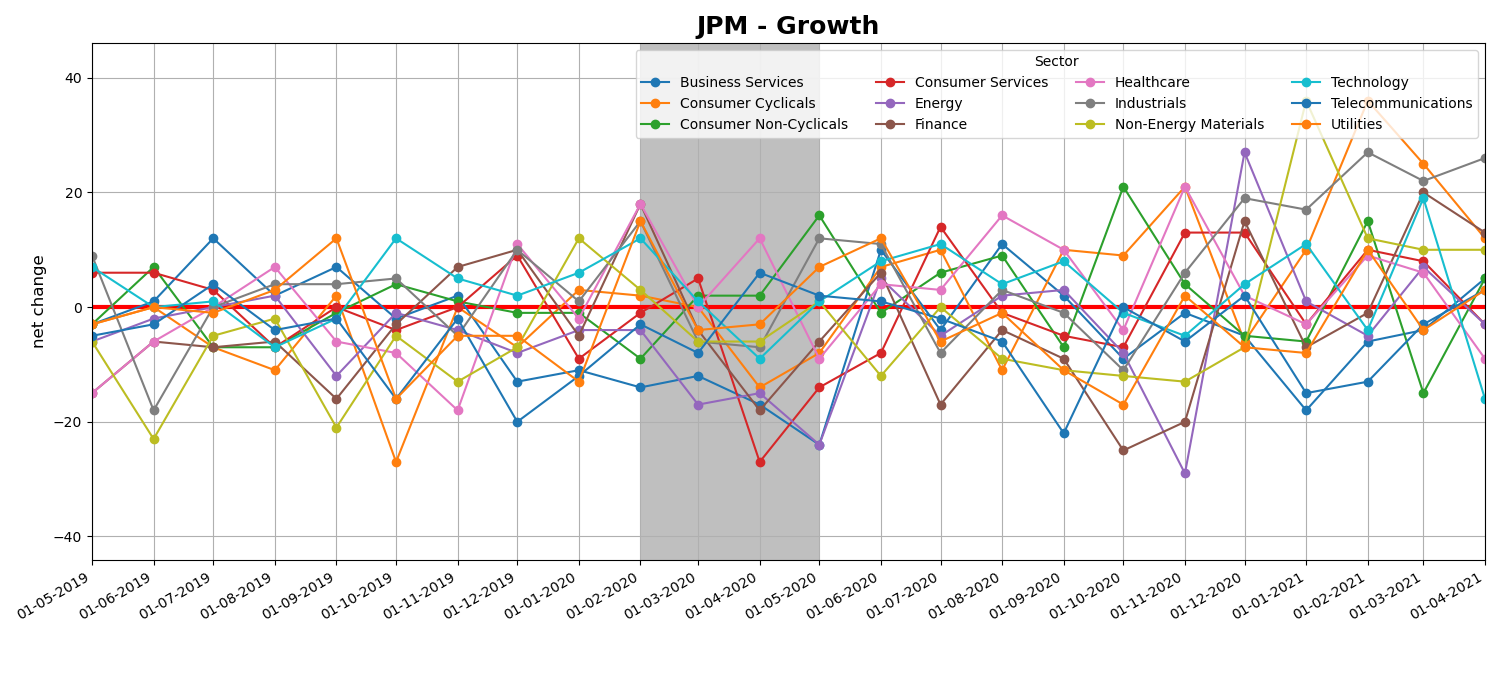
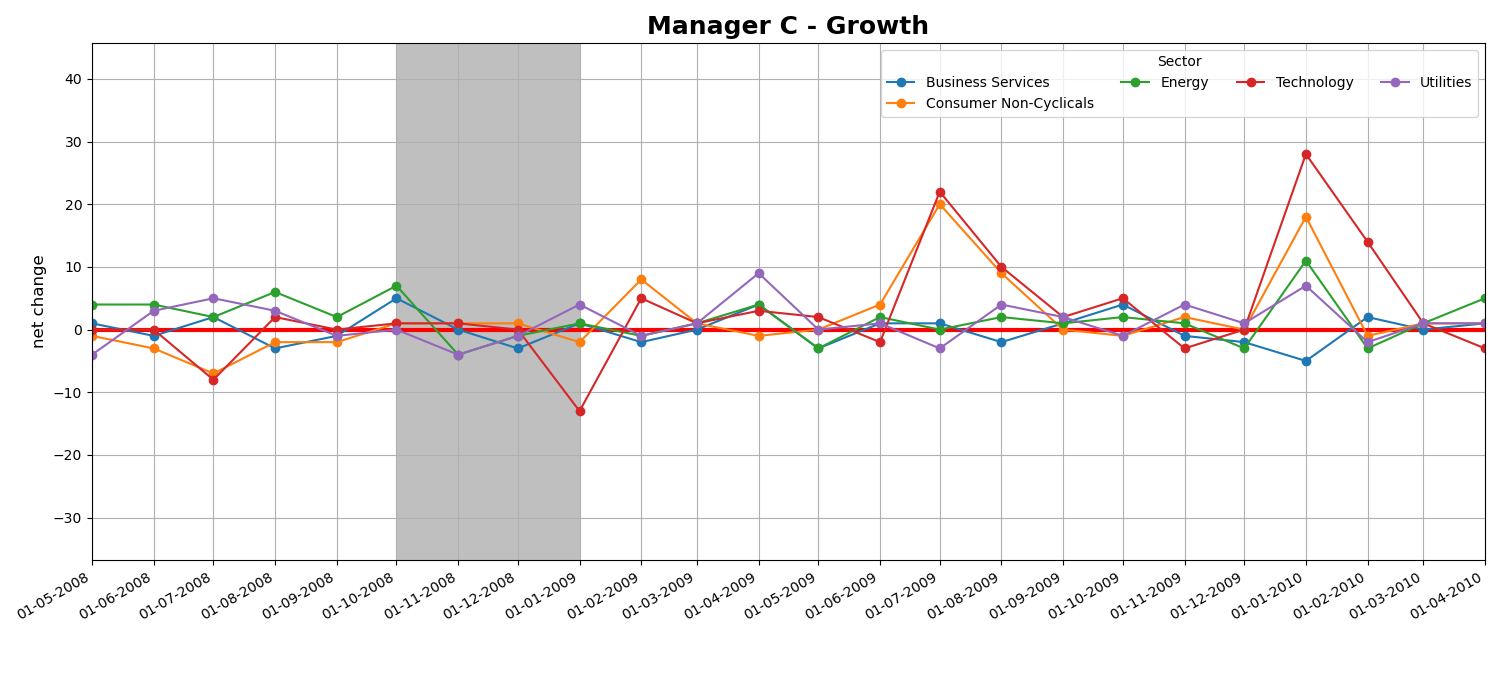
changes

diff --git a/Insight/Insight_1/4.2.extract_sector_data.py b/Insight/Insight_1/4.2.extract_sector_data.py
@@ -22,6 +22,13 @@ connection_to_sql = pyodbc.connect('DSN={dsn_name}'.format(dsn_name = dsn))
 manager = 'JPM'
 
 
+
+if manager == 'JPM':
+    manager_hidden = 'Manager C'
+else:
+    manager_hidden = 'Manager A'
+
+
 start_time = time.time()
 
 sql_query_1 = loadsql.get_sql_q('3.2.extract_sector_data.sql',show=0,connection=dsn).format(manager=manager)
@@ -43,23 +50,11 @@ print("Process finished --- %s seconds ---" % (time.time() - start_time))
 # df_1[df_1.style_agg.isin(['Value', 'Growth'])].groupby(['as_of_date','sector']).sum()['net_chg'].unstack().plot(ax=ax, marker='o') # only plot value and growth from dataframe
 
 
-
-# %%
-
-style_list = ['Value','Growth']
-sector_list = ['Finance','Healthcare','Technology','Energy', 'Utilities', 'Telecommunications', 'Non-Energy Materials', 'Consumer Non-Cyclicals', 'Industrials', 'Consumer Services', 'Consumer Cyclicals', 'Business Services']
+#%%
 
 
-#['Finance','Healthcare','Technology','Telecommunications','Consumer Cyclicals','Utilities']
-
-
-
-
-#['Finance','Healthcare','Technology','Energy']
-
-
-start_date = datetime.date(2019, 5, 1)
-end_date = datetime.date(2021, 4, 1)
+start_date = datetime.date(2008, 5, 1)
+end_date = datetime.date(2010, 4, 1)
 
 # start_date = datetime.date(2008, 5, 1)
 # end_date = datetime.date(2010, 4, 1)
@@ -79,6 +74,34 @@ interval = 1
 # Consumer Cyclicals
 # Business Services
 
+
+# %%
+
+style_list = ['Value','Growth']
+sector_list = ['Technology','Energy', 'Utilities', 'Consumer Non-Cyclicals', 'Business Services']
+
+
+# JPM 2020 ['Finance','Healthcare','Technology','Energy','Consumer Cyclicals', 'Business Services']
+# JPM 2008 ['Technology','Energy', 'Utilities', 'Consumer Non-Cyclicals', 'Business Services']
+
+# Fidelity 2020 ['Healthcare','Technology', 'Consumer Non-Cyclicals', 'Industrials', 'Consumer Services', 'Business Services']
+# Fidelity 2008 ['Healthcare', 'Utilities', 'Non-Energy Materials', 'Consumer Non-Cyclicals', 'Business Services']
+
+# ALL ['Finance','Healthcare','Technology','Energy', 'Utilities', 'Telecommunications', 'Non-Energy Materials', 'Consumer Non-Cyclicals', 'Industrials', 'Consumer Services', 'Consumer Cyclicals', 'Business Services']
+
+
+df_value = df_1[df_1.style_agg.eq('Value') & df_1.sector.isin(sector_list) & df_1.as_of_date.eq('2009-01-01')][['sector','net_chg']].set_index('sector').rename(columns = {'net_chg':'net_chg_value'})
+
+df_growth = df_1[df_1.style_agg.eq('Growth') & df_1.sector.isin(sector_list) & df_1.as_of_date.eq('2009-01-01')][['sector','net_chg']].set_index('sector').rename(columns = {'net_chg':'net_chg_growth'})
+
+
+df_comb = pd.concat([df_value, df_growth], axis=1, join="inner")
+
+df_comb['net_final'] = (df_comb['net_chg_value']-df_comb['net_chg_growth']).abs()
+
+df_comb.sort_values(by='net_final', ascending=False)
+
+
 #%%
 
 # by Sector
@@ -87,7 +110,7 @@ def graph(style,sector_list):
 
     fig, ax = plt.subplots(figsize=(15,7))
 
-    ax.set_title(manager + ' - ' + style, fontsize=18, fontweight='bold') # title of the plot
+    ax.set_title(manager_hidden + ' - ' + style, fontsize=18, fontweight='bold') # title of the plot
     ax.axhline(linewidth=3, color='r') # red color line on y=0
 
     if start_date > datetime.date(2015, 1, 1):
@@ -97,7 +120,6 @@ def graph(style,sector_list):
     else:
         
         ax.axvspan(datetime.date(2008, 10, 1), datetime.date(2009, 1, 1), facecolor ='gray', alpha = 0.5) # gray area for Sep/2008
-
 
 
     ax.set_xlim([start_date, end_date]) # adjust the x axis to fit the dates available
@@ -126,9 +148,10 @@ def graph(style,sector_list):
     plt.savefig('{}.png'.format(manager + '_' + style), dpi=100) # store image
     plt.show()
 
-
 for style in style_list:
     graph(style,sector_list)
+
+
 
 # %%
 

diff --git a/Insight/Insight_1/4.1.extract_style_data.py b/Insight/Insight_1/4.1.extract_style_data.py
@@ -21,6 +21,11 @@ connection_to_sql = pyodbc.connect('DSN={dsn_name}'.format(dsn_name = dsn))
 # update manager name
 manager = 'fidelity'
 
+if manager == 'JPM':
+    manager_hidden = 'Manager C'
+else:
+    manager_hidden = 'Manager A'
+
 
 start_time = time.time()
 
@@ -49,7 +54,7 @@ position_neg = 40
 
 fig, ax = plt.subplots(figsize=(15,7))
 
-ax.set_title('Manager A', fontsize=18, fontweight='bold') # title of the plot
+ax.set_title(manager_hidden, fontsize=18, fontweight='bold') # title of the plot
 ax.axhline(linewidth=3, color='r') # red color line on y=0
 
 if start_date > datetime.date(2015, 1, 1):
